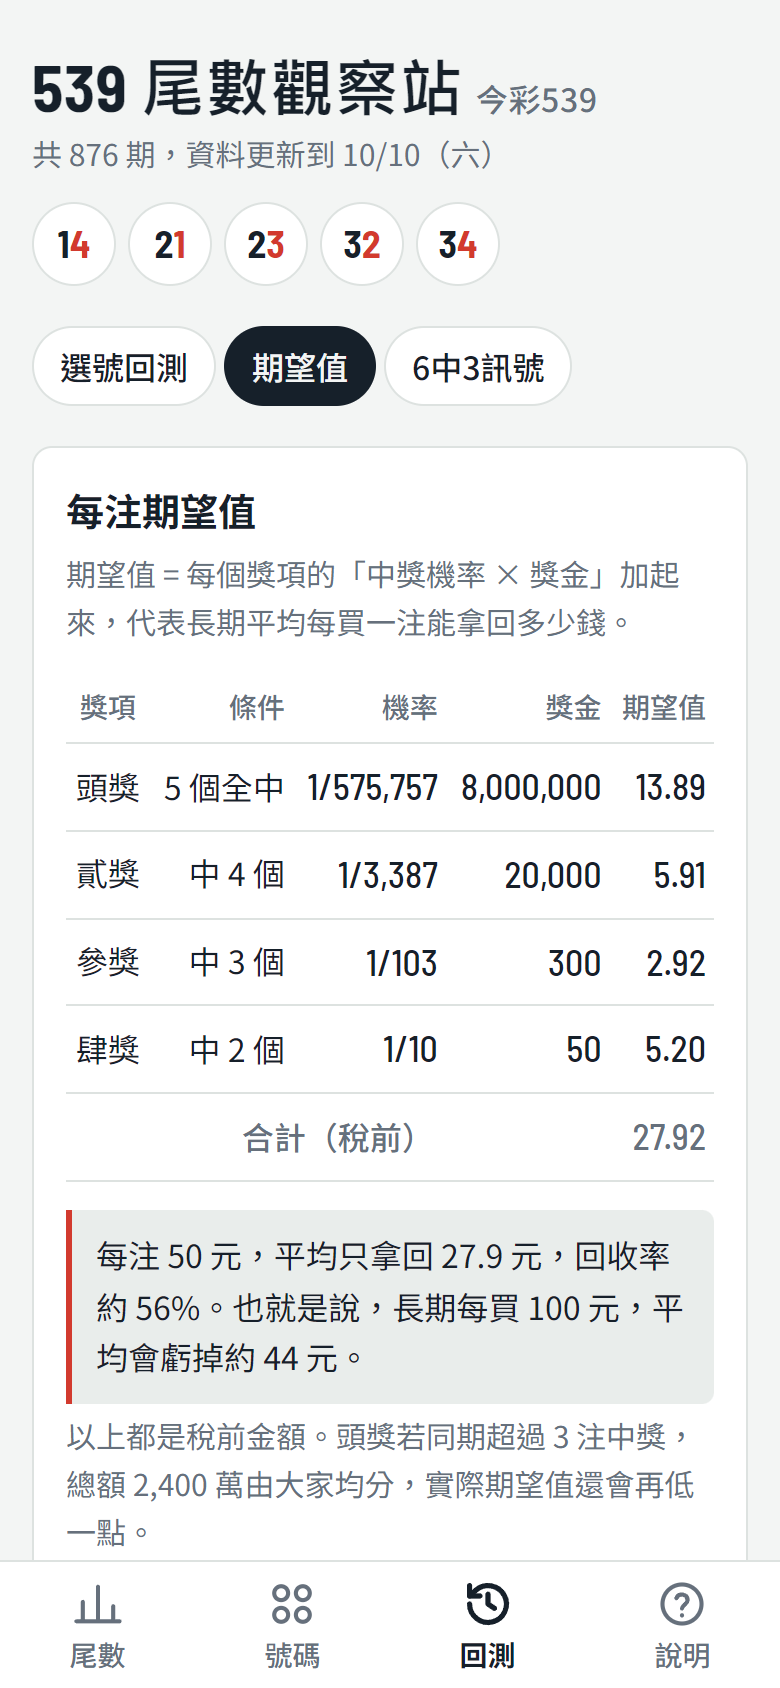
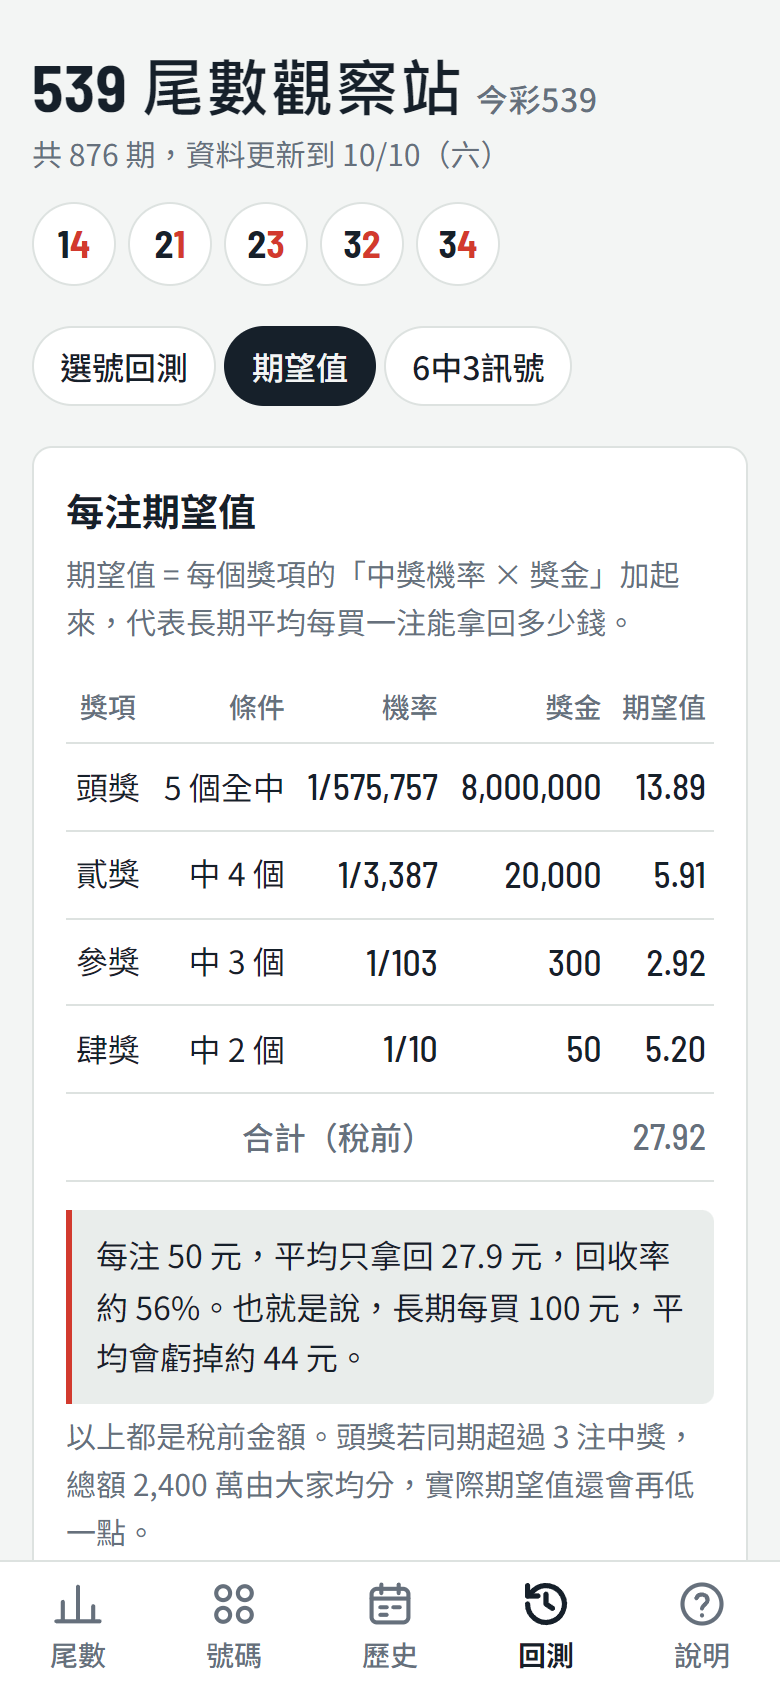
新增「歷史」頁；單號冷熱改成金色號碼球
- 底部新增「歷史」鍵：期別（民國年＋當年第幾期）、日期星期、5 個金色號碼球，可選最近 30／100／200 期或全部
- 單號冷熱：金色球，下方紅字 = 開出次數、藍字 = 幾期沒開；最新一期加框、最多次紅底、最久沒開藍底
- 說明頁、親友 SOP、計畫書同步；新增歷史頁截圖並重截說明截圖
- 版本號 20261011e

diff --git a/app/style.css b/app/style.css
@@ -134,5 +134,28 @@ h3{font-size:17px;margin:16px 0 4px}
 .seg button[aria-pressed="true"]{background:var(--panel);color:var(--ink);font-weight:700;box-shadow:0 1px 2px rgba(0,0,0,.12)}
 small.avg{display:block;font-size:12.5px;color:var(--muted);line-height:1.2}
 table.tri td{vertical-align:top}
+/* 金色大球（歷史、單號冷熱） */
+:root{--gold:#D8A845;--gold-hi:#F0CB72;--gold-ink:#1A1408}
+.gball{width:min(44px,11.4vw);height:min(44px,11.4vw);border-radius:50%;display:inline-flex;align-items:center;justify-content:center;flex:none;
+  background:radial-gradient(circle at 34% 30%,var(--gold-hi),var(--gold) 62%);color:var(--gold-ink);font:700 min(22px,5.8vw) var(--num);letter-spacing:-.02em;box-shadow:inset 0 -2px 3px rgba(0,0,0,.15)}
+.hpanel{padding:16px 0 0;overflow:hidden}
+.hhead{display:flex;justify-content:space-between;align-items:center;padding:0 16px}
+.hhead h2{margin:0}
+.hlist{margin-top:10px}
+.hrow{display:flex;align-items:center;justify-content:space-between;gap:8px;padding:8px 12px;border-top:1px solid var(--line)}
+.hrow:nth-child(odd){background:var(--soft)}
+.hmeta{display:flex;flex-direction:column;font:500 14px var(--num);line-height:1.35;color:var(--ink);white-space:nowrap}
+.hmeta span:last-child{color:var(--muted);font-size:13px}
+.hballs{display:flex;gap:min(5px,1.2vw)}
+.hgrid{display:grid;grid-template-columns:repeat(6,1fr);gap:12px 4px;margin-top:14px}
+.hc{display:flex;flex-direction:column;align-items:center}
+.gbox{padding:3px;border-radius:9px;border:1.5px solid transparent}
+.hc.new .gbox{background:color-mix(in srgb,var(--cold) 22%,transparent);border-color:color-mix(in srgb,var(--cold) 55%,transparent)}
+.hn{display:flex;justify-content:center;gap:7px;margin-top:3px;font:600 15px var(--num);line-height:1.25}
+.ho{color:var(--hot)} .hg{color:var(--cold)}
+.hn .mx{border-radius:4px;padding:0 4px;color:#fff}
+.hn .ho.mx{background:var(--hot)} .hn .hg.mx{background:var(--cold)}
+.hlegend{display:flex;flex-direction:column;gap:2px;margin-top:10px;font-size:14.5px;color:var(--muted)}
+.hlegend b{font-weight:700}
 .meta .src{margin-left:6px}
 .meta .src.off{color:var(--hot)}

diff --git a/app/index.html b/app/index.html
@@ -16,7 +16,7 @@
 <link rel="preconnect" href="https://fonts.googleapis.com">
 <link rel="preconnect" href="https://fonts.gstatic.com" crossorigin>
 <link href="https://fonts.googleapis.com/css2?family=Barlow+Semi+Condensed:wght@500;600;700&family=Noto+Sans+TC:wght@400;500;700&display=swap" rel="stylesheet">
-<link rel="stylesheet" href="style.css?v=20261011d">
+<link rel="stylesheet" href="style.css?v=20261011e">
 </head>
 <body>
 <div id="ptr" aria-live="polite"></div>
@@ -40,6 +40,8 @@
     <svg viewBox="0 0 24 24" aria-hidden="true"><path d="M5 20V11M12 20V4M19 20v-7M2 20h20"/></svg>尾數</button>
   <button data-g="num">
     <svg viewBox="0 0 24 24" aria-hidden="true"><circle cx="7" cy="7" r="3.2"/><circle cx="17" cy="7" r="3.2"/><circle cx="7" cy="17" r="3.2"/><circle cx="17" cy="17" r="3.2"/></svg>號碼</button>
+  <button data-g="hist">
+    <svg viewBox="0 0 24 24" aria-hidden="true"><rect x="3.5" y="5" width="17" height="15.5" rx="2.5"/><path d="M3.5 9.5h17M8 3v4M16 3v4M7.5 13.5h3M7.5 17h3M13.5 13.5h3"/></svg>歷史</button>
   <button data-g="test">
     <svg viewBox="0 0 24 24" aria-hidden="true"><path d="M3.5 12a8.5 8.5 0 1 0 2.8-6.3L3.5 8.3"/><path d="M3.5 3.5v4.8h4.8"/><path d="M12 7.5V12l3 2"/></svg>回測</button>
   <button data-g="help">
@@ -48,7 +50,7 @@
     <svg viewBox="0 0 24 24" aria-hidden="true"><ellipse cx="12" cy="5.5" rx="7.5" ry="2.8"/><path d="M4.5 5.5v13c0 1.5 3.4 2.8 7.5 2.8s7.5-1.3 7.5-2.8v-13"/><path d="M4.5 12c0 1.5 3.4 2.8 7.5 2.8s7.5-1.3 7.5-2.8"/></svg>資料</button>
 </nav>
 
-<script src="stats.js?v=20261011d"></script>
-<script src="app.js?v=20261011d"></script>
+<script src="stats.js?v=20261011e"></script>
+<script src="app.js?v=20261011e"></script>
 </body>
 </html>

diff --git a/app/sw.js b/app/sw.js
@@ -2,7 +2,7 @@
  * 網頁檔案存一份在手機裡。改了 app 的檔案時，把 VERSION 換掉，舊的快取會自動清掉。
  * 開獎資料不在這裡處理：app.js 自己會把資料存在 localStorage。
  */
-const VERSION = "20261011d";
+const VERSION = "20261011e";
 const CACHE = "t539-" + VERSION;
 const SHELL = [
   "./",
@@ -19,6 +19,7 @@ const SHELL = [
   "./help/cross.png",
   "./help/num.png",
   "./help/ev.png",
+  "./help/hist.png",
 ];
 
 self.addEventListener("install", e => {

diff --git a/tools/help-screenshots.js b/tools/help-screenshots.js
@@ -5,7 +5,7 @@
 const puppeteer = require("puppeteer-core");
 const os = require("os"), path = require("path");
 const CHROME = "C:/Program Files/Google/Chrome/Application/chrome.exe";
-const SHOTS = [["dist", "home"], ["cross", "cross"], ["num", "num"], ["ev", "ev"]];  // [分頁, 檔名]
+const SHOTS = [["dist", "home"], ["cross", "cross"], ["num", "num"], ["hist", "hist"], ["ev", "ev"]];  // [分頁, 檔名]
 
 (async () => {
   const b = await puppeteer.launch({executablePath: CHROME, headless: true,
